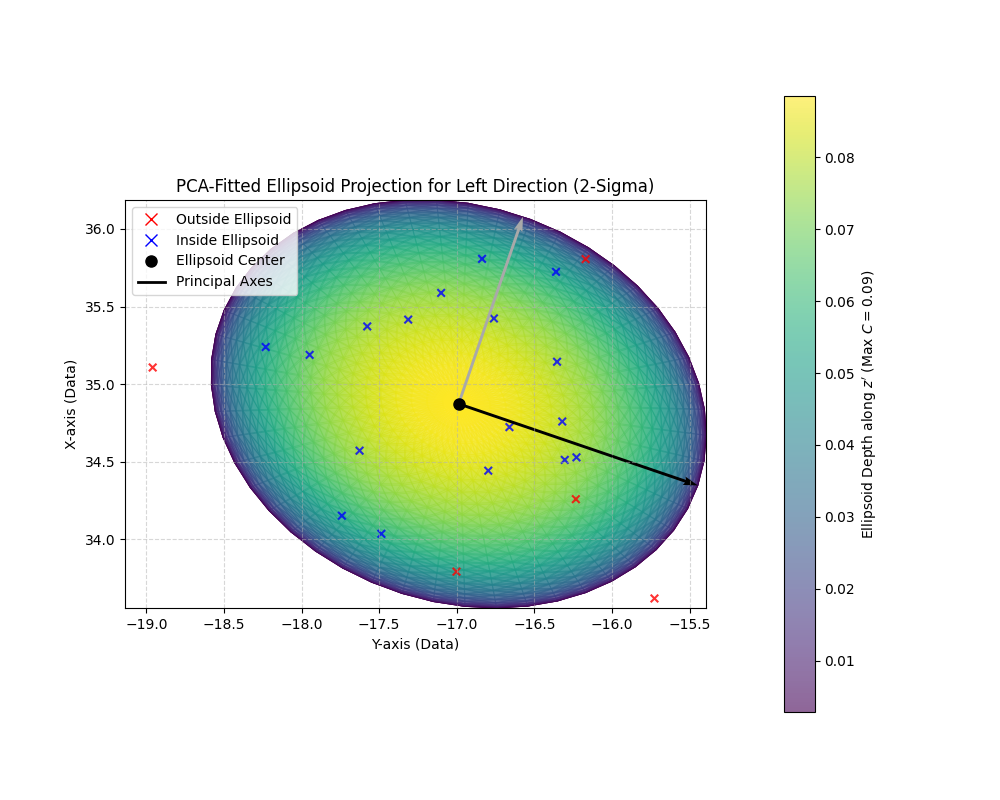
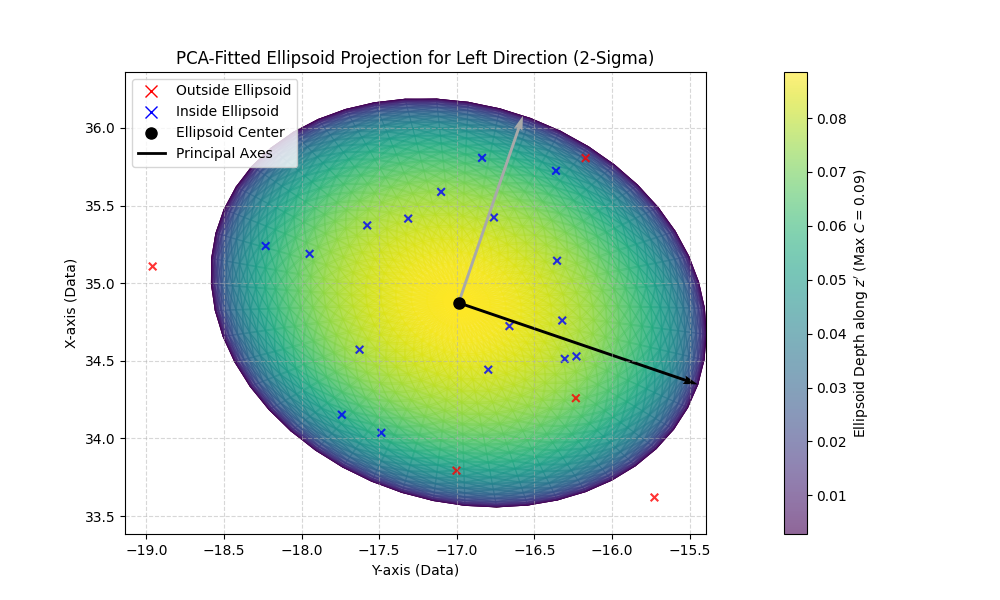
Plots done, writing time

diff --git a/code/stat_analysis.py b/code/stat_analysis.py
@@ -124,88 +124,6 @@ def chi_square_gaussian_test(data, col_name, num_bins=10, filename='chi_square_h
     plt.close()
 
 
-
-def plot_2d_pca_and_ellipse(df, column_names=['X', 'Y'], conf_level=0.95, filename='pca_ellipse_plot.png'):
-    """
-    Performs PCA on 2D data, plots the data in the new space, and adds the
-    confidence ellipse (the statistical uncertainty).
-
-    Args:
-        df (pd.DataFrame): Input DataFrame with X and Y columns.
-        column_names (list): The two column names to use (e.g., ['X', 'Y']).
-        conf_level (float): Confidence level for the ellipse (e.g., 0.95 for 95%).
-    """
-    if len(column_names) != 2:
-        raise ValueError("Must provide exactly two column names for 2D analysis.")
-
-    data = df[column_names].values
-    center = np.mean(data, axis=0) # Mean vector (\mu)
-    cov_matrix = np.cov(data, rowvar=False) # Covariance matrix (\Sigma)
-    eigenvalues, eigenvectors = np.linalg.eigh(cov_matrix) # PCA: Eigen-decomposition
-
-    # Sort in descending order (largest eigenvalue first)
-    order = eigenvalues.argsort()[::-1]
-    eigenvalues = eigenvalues[order]
-    eigenvectors = eigenvectors[:, order]
-
-    k = 2 # Degrees of freedom for Chi-squared distribution (2D)
-    c = chi2.ppf(conf_level, k) # Critical Chi-square value
-
-    # Radii: sqrt(c * eigenvalue)
-    radii = np.sqrt(c * eigenvalues)
-
-    print("\n--- 2D PCA and Statistical Uncertainty ---")
-    print(f"Mean (X, Y):\n{center}")
-    print(f"Covariance Matrix (Sigma):\n{cov_matrix}")
-    print(f"Principal Components (Eigenvectors):\n{eigenvectors}")
-    print(f"Eigenvalues (Variance along PC):\n{eigenvalues}")
-    print(f"Ellipse Radii ({conf_level*100:.0f}%):\n{radii}")
-    print(f"Angle of largest PC: {np.degrees(np.arctan2(eigenvectors[1, 0], eigenvectors[0, 0])):.2f} degrees")
-
-    # Angle of rotation for the ellipse (angle of the first principal component)
-    angle_rad = np.arctan2(eigenvectors[1, 0], eigenvectors[0, 0])
-    rotation_matrix = np.array([
-        [np.cos(angle_rad), -np.sin(angle_rad)],
-        [np.sin(angle_rad),  np.cos(angle_rad)]
-    ])
-
-    # Generate points on a unit circle
-    t = np.linspace(0, 2 * np.pi, 100)
-    xy_unit = np.array([np.cos(t), np.sin(t)])
-
-    # Scale by radii
-    xy_scaled = np.diag(radii) @ xy_unit
-
-    # Rotate and translate
-    xy_rotated = rotation_matrix @ xy_scaled
-    x_ellipse = xy_rotated[0, :] + center[0]
-    y_ellipse = xy_rotated[1, :] + center[1]
-
-    # Plot
-    plt.figure(figsize=(8, 8))
-    plt.scatter(data[:, 0], data[:, 1], s=20, alpha=0.6, label='Filtered End-Poses')
-    plt.plot(center[0], center[1], 'ko', markersize=8, label='Mean Center')
-    plt.plot(x_ellipse, y_ellipse, 'r-', linewidth=2, label=f'{conf_level*100:.1f}% Uncertainty Ellipse')
-
-    # Plot Principal Axes (scaled by the radii for visualization)
-    for i in range(k):
-        v = eigenvectors[:, i] * radii[i]
-        plt.plot([center[0], center[0] + v[0]], [center[1], center[1] + v[1]],
-                 'g--' if i == 0 else 'm--', linewidth=1.5,
-                 label=f'PC {i+1} Axis' if i == 0 else None)
-
-    plt.title(f'PCA and Uncertainty Ellipse ({conf_level*100:.1f}% Confidence)')
-    plt.xlabel(column_names[0])
-    plt.ylabel(column_names[1])
-    plt.axis('equal')
-    plt.grid(True, linestyle='--', alpha=0.6)
-    plt.legend(loc='lower right')
-    plt.savefig(f'../figures/{filename}', dpi=300)
-    plt.close()
-
-    # Return covariance matrix for comparison with model uncertainty
-    return cov_matrix, center
-
 def plot_ellipsoid_pca_fit(df, df_name, sigma_multiplier=2, x_col='X', y_col='Y', z_col='Theta'):
     """
     Performs PCA on 3D data (X, Y, Theta) to define a best-fit ellipsoid.
@@ -300,7 +218,7 @@ def plot_ellipsoid_pca_fit(df, df_name, sigma_multiplier=2, x_col='X', y_col='Y'
 
     # --- 4. Plotting ---
 
-    fig, ax = plt.subplots(figsize=(10, 8))
+    fig, ax = plt.subplots(figsize=(10, 6))
 
     # --- Plot 1: Ellipsoid Heatmap (Depth) ---
     im = ax.pcolormesh(Y_world, X_world, C_data, cmap='viridis', shading='gouraud', alpha=0.6)
@@ -352,7 +270,7 @@ def plot_ellipsoid_pca_fit(df, df_name, sigma_multiplier=2, x_col='X', y_col='Y'
     ax.set_ylabel(f'{x_col}-axis (Data)')
     ax.set_title(f'PCA-Fitted Ellipsoid Projection for {df_name} Direction ({sigma_multiplier}-Sigma)')
     ax.grid(True, linestyle='--', alpha=0.5)
-    ax.set_aspect('equal', adjustable='box')
+    ax.axis('equal')
     plt.savefig(f'../figures/{df_name}_ellipsoid_projection_inclusion.png')
     plt.close(fig) # Close the figure to free up memory
 

diff --git a/subfiles/exp03/experiment03.tex b/subfiles/exp03/experiment03.tex
@@ -1,0 +1,20 @@
+%!TEX root = ../report.tex
+\documentclass[../report.tex]{subfiles}
+
+\begin{document}
+\section{???}
+\label{sec:exp03}
+
+\subsection{???}
+\input{deliv03_encoder_manual.tex}
+
+\subsection{???}
+\input{deliv03_chebby_chi.tex}
+
+\subsection{???}
+\input{deliv03_ellispoid.tex}
+
+
+
+
+\end{document}
